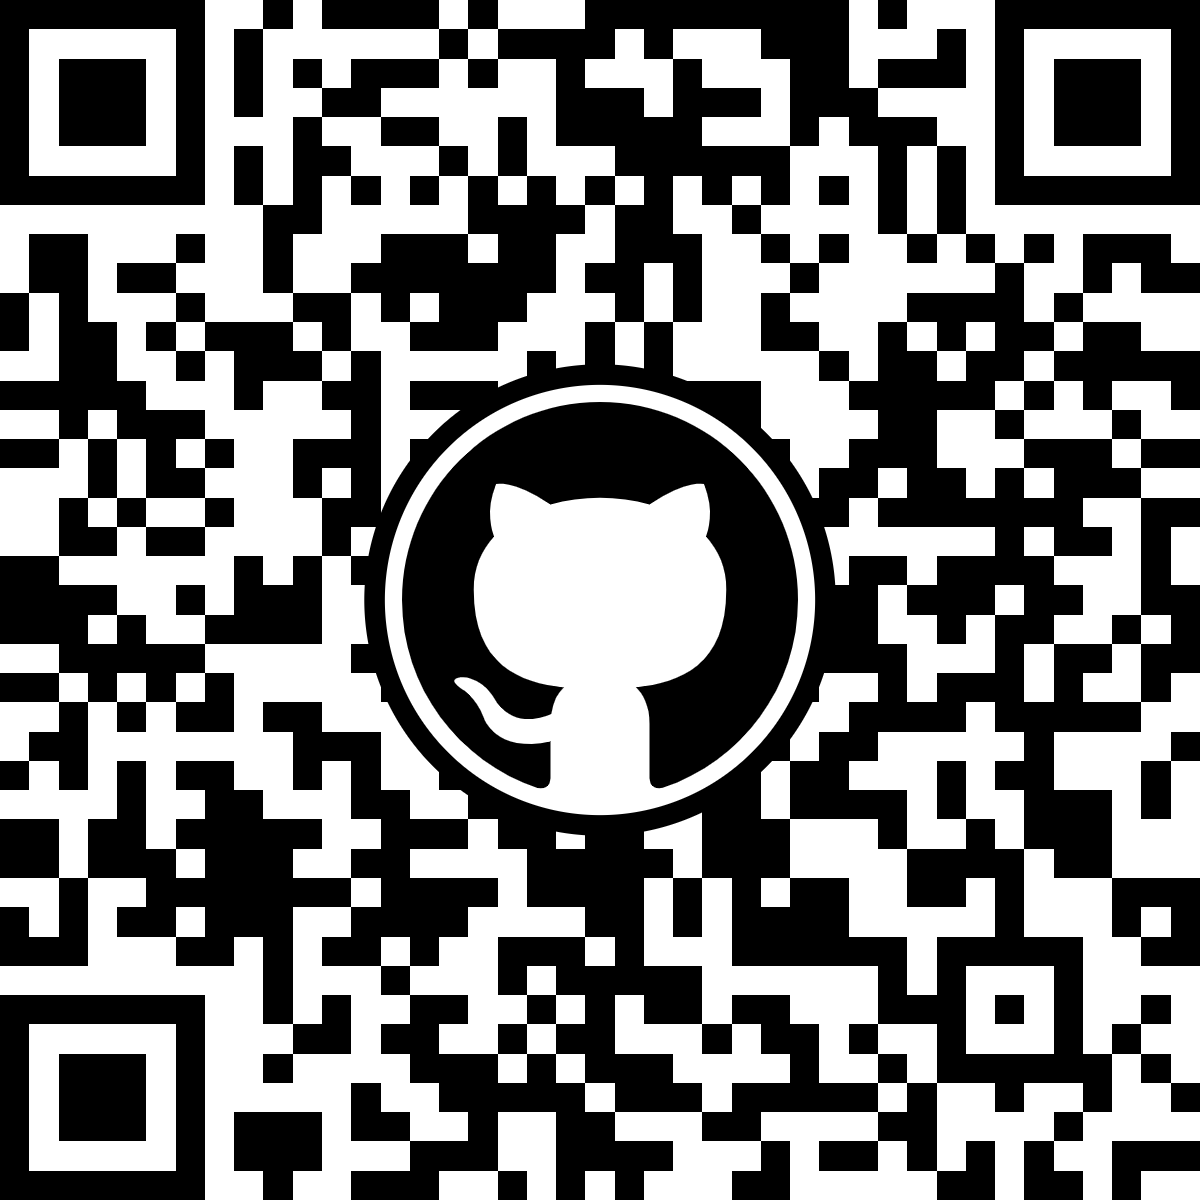
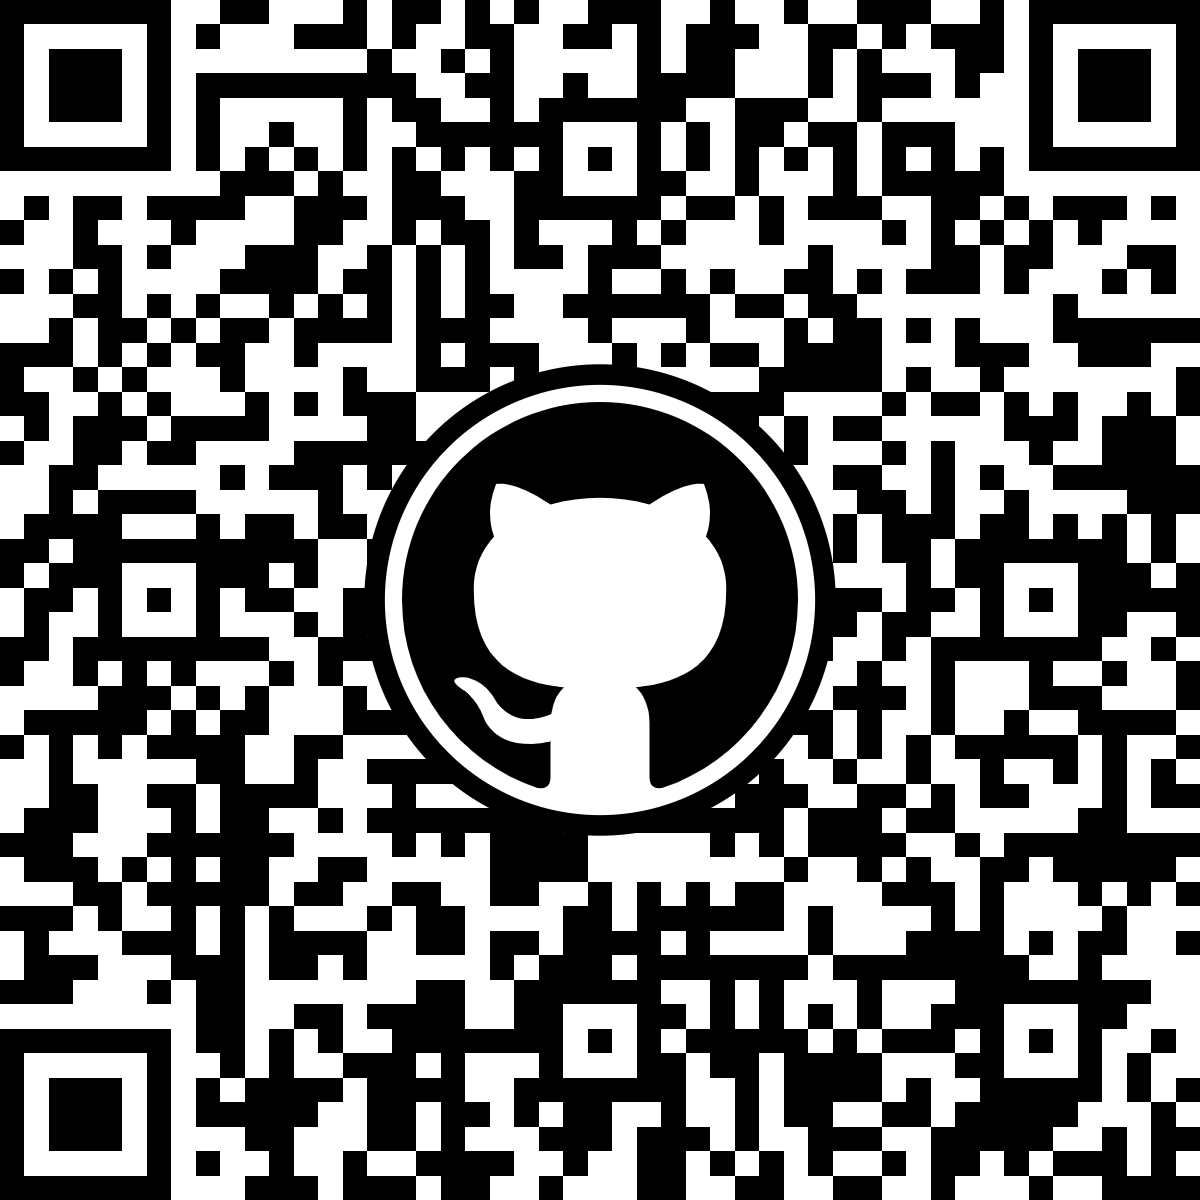
updated title and citation information

diff --git a/Readme.md b/Readme.md
@@ -1,6 +1,5 @@
-# **Samsung 30Q Cycling**
-
-Samsung 30Q is a high-performance lithium-ion cell widely used in various applications, including e-bikes, power tools, and other high-drain devices. Cycling refers to the process of charging and discharging the battery repeatedly.
+# Dataset Cycling with Strain Mmonitoring for Samsung 30Q Cell
+The Samsung 30Q is a high-performance lithium-ion cell widely used in various applications, including e-bikes, power tools, and other high-drain devices. Cycling refers to the process of charging and discharging the battery repeatedly.
 
 ## Key Features of the Samsung 30Q:
 - **Capacity**: 3000mAh
@@ -23,12 +22,12 @@ This work is licensed under a Creative Commons Attribution-ShareAlike 4.0 Intern
 
 Cite this as: 
 
-@Misc{ARTSLabSignalProcessingInstrument,    
+@Misc{ARTSLabDatasetCyclingStrain,    
   author = {ARTS-Lab},  
   howpublished = {GitHub},  
-  title  = {Dataset-battery-Samung-30Q-cycling},    
+  title  = {dataset-cycling-with-strain-monitoring-for-samsung-30Q-cell},    
   groups = {ARTS-Lab},    
-  url    = {https://github.com/ARTS-Laboratory/Dataset-battery-Samung-30Q-cycling},   
+  url    = {https://github.com/ARTS-Laboratory/dataset-cycling-with-strain-monitoring-for-samsung-30Q-cell},   
 }
 
 <p align="center">
